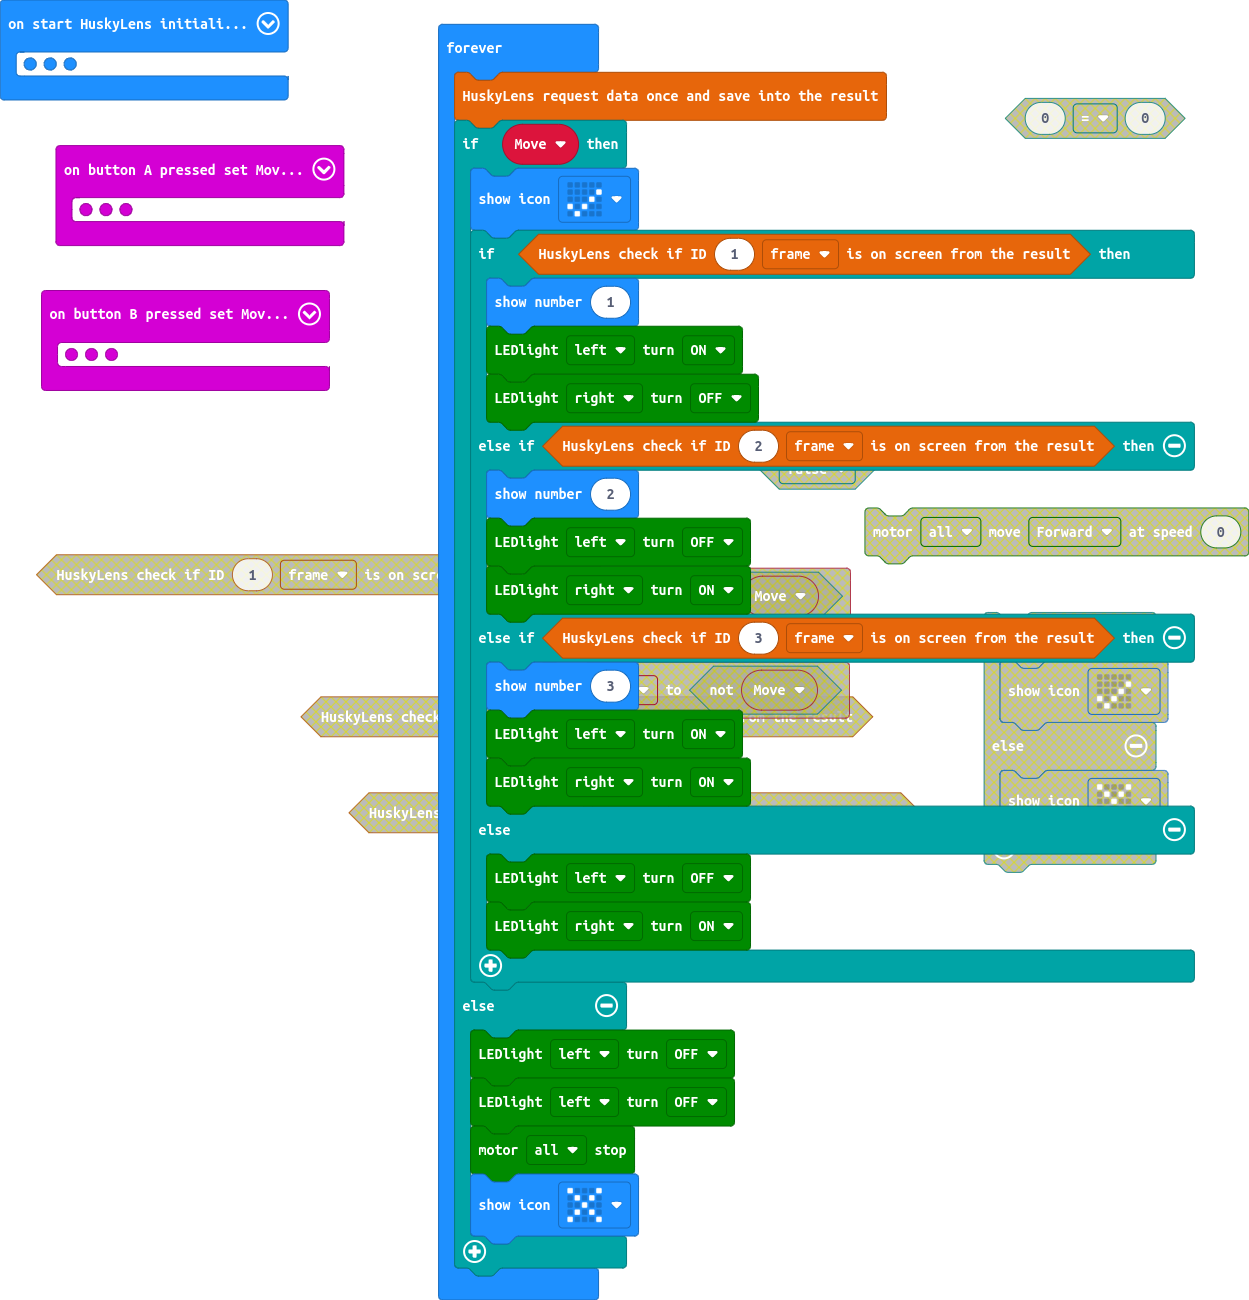
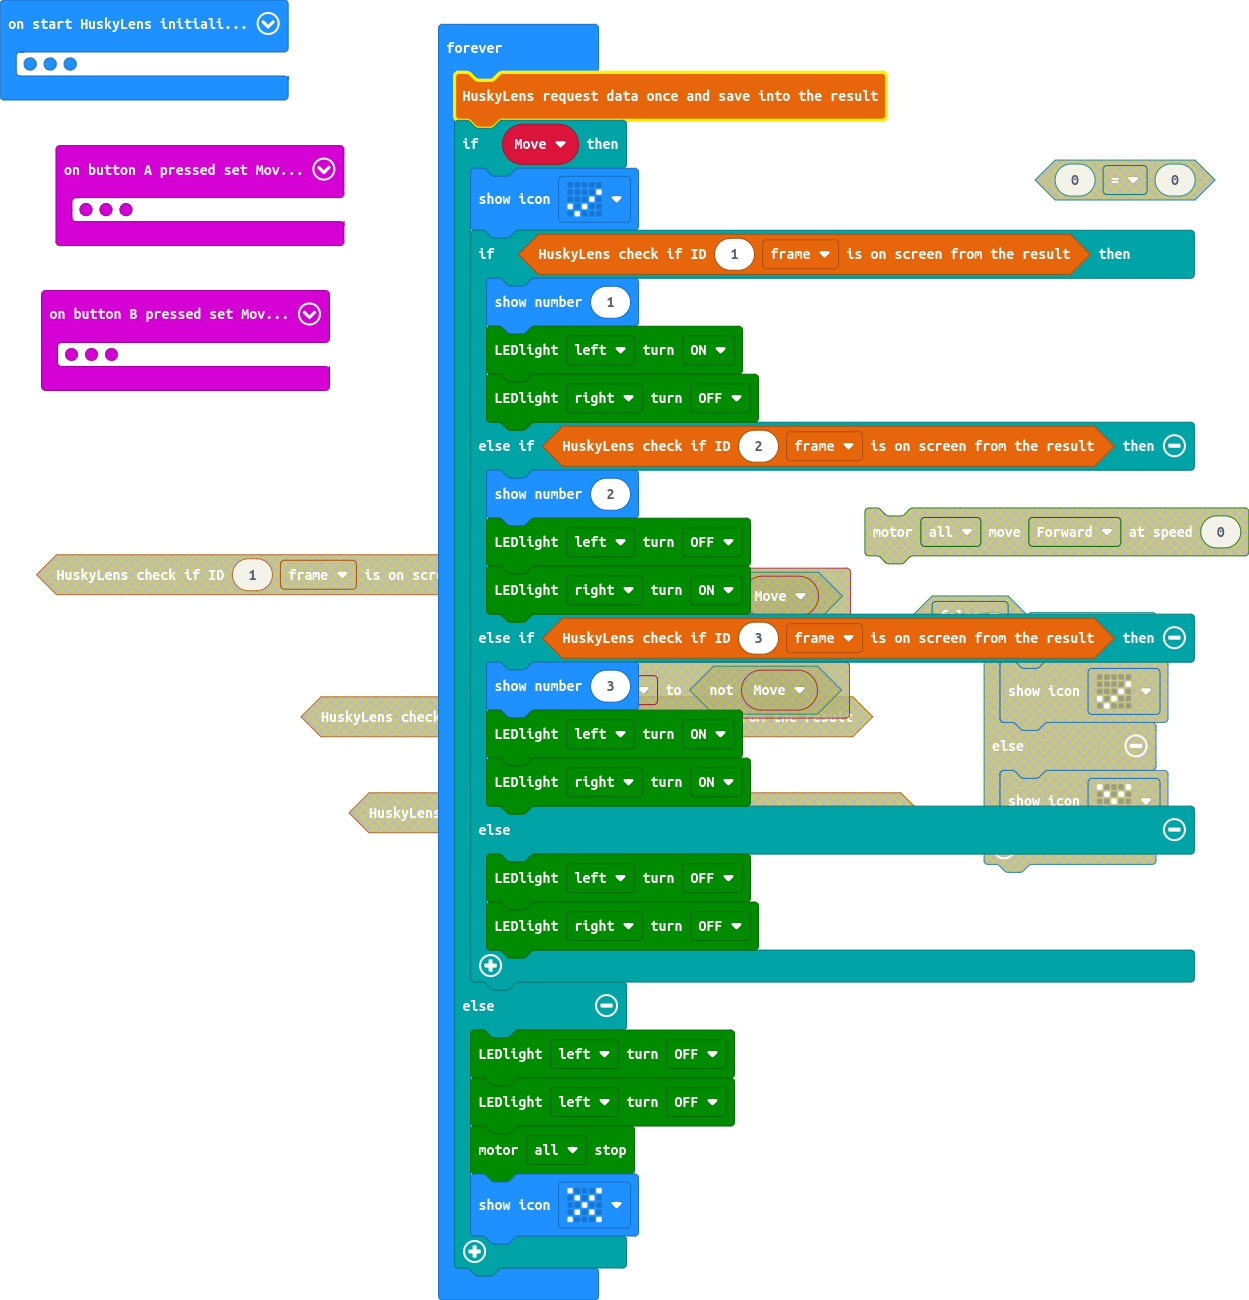
correct led in loop

diff --git a/main.ts b/main.ts
@@ -29,7 +29,7 @@ basic.forever(function () {
             maqueen.writeLED(maqueen.LED.LEDRight, maqueen.LEDswitch.turnOn)
         } else {
             maqueen.writeLED(maqueen.LED.LEDLeft, maqueen.LEDswitch.turnOff)
-            maqueen.writeLED(maqueen.LED.LEDRight, maqueen.LEDswitch.turnOn)
+            maqueen.writeLED(maqueen.LED.LEDRight, maqueen.LEDswitch.turnOff)
         }
     } else {
         maqueen.writeLED(maqueen.LED.LEDLeft, maqueen.LEDswitch.turnOff)
